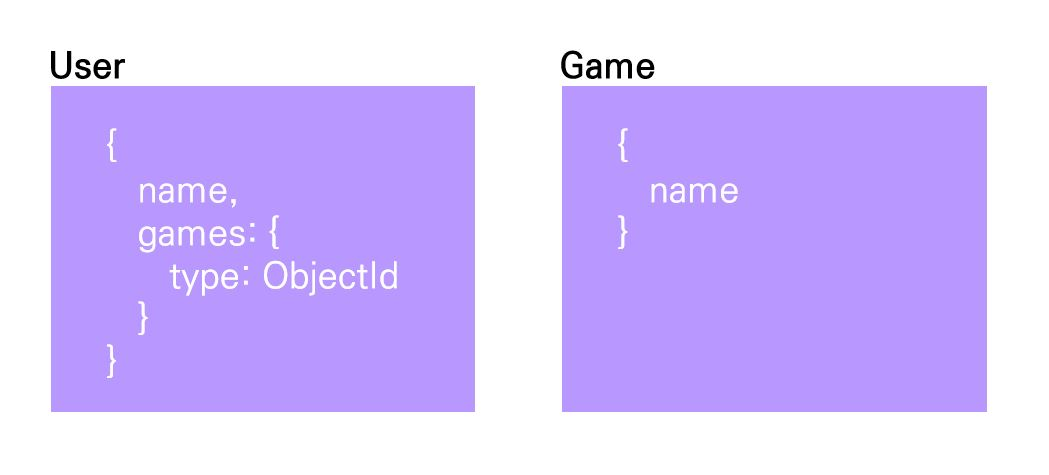
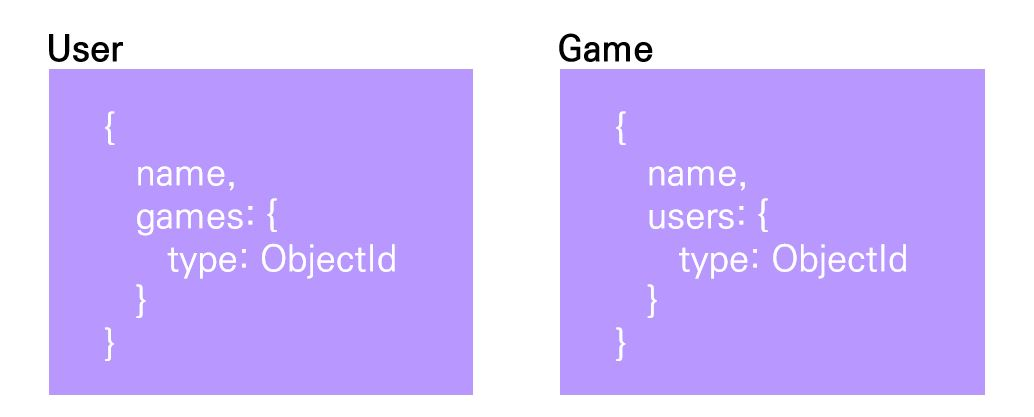
UPDATE : Enable copy my colors & _posts file logic simple

diff --git a/_sass/jebl/_about.scss b/_sass/jebl/_about.scss
@@ -72,6 +72,34 @@
 				display: none;
 			}
 		}
+		.theme-block {
+			width: 18rem;
+			padding: 10px;
+			display: flex;
+			margin-top: 2rem;
+			margin-left: auto;
+			margin-right: auto;
+			border-radius: .5rem;
+			justify-content: space-around;
+			box-shadow: 5px 5px 8px #e6e6e6, -5px -5px 8px #ffffff;
+			.theme-btn {
+				width: 3rem;
+				height: 3rem;
+				border: 0;
+				border-radius: .5rem;
+				// background-color: tomato;
+				-webkit-box-shadow: 3px 3px 5px 0px rgba(0,0,0,0.15);
+				-moz-box-shadow: 3px 3px 5px 0px rgba(0,0,0,0.15);
+				box-shadow: 3px 3px 5px 0px rgba(0,0,0,0.15);
+				transition: all ease .3s;
+				&:hover {
+					transform: scale(1.1);
+				}
+				&:active {
+					transform: scale(.9);
+				}
+			}
+		}
 	}
 	.history-main {
 		font-size: 48px;

diff --git a/_sass/jebl/_layout.scss b/_sass/jebl/_layout.scss
@@ -282,6 +282,10 @@
 			border-radius: 35px;
 			color: $themeColor;
 			background: #FFFFFF;
+			-webkit-box-shadow: 5px 5px 8px #e6e6e6, 
+			             -5px -5px 8px #ffffff;
+			-moz-box-shadow: 5px 5px 8px #e6e6e6, 
+			             -5px -5px 8px #ffffff;
 			box-shadow:  5px 5px 8px #e6e6e6, 
 			             -5px -5px 8px #ffffff;
 		}
@@ -532,7 +536,7 @@
 }
 .alertBoxShow {
     background: #ffffff;
-	animation: fadeInOut 5s linear forwards;
+	animation: fadeInOut 4s linear forwards;
 }
 @keyframes fadeInOut {
  0% { opacity: 0; }

diff --git a/_layouts/post.html b/_layouts/post.html
@@ -115,8 +115,8 @@
 
 	});
 	function copyUrlToClipboard() {
-		var dummy = document.createElement('input'),
-		text = window.location.href;
+		var dummy = document.createElement('input');
+		var text = window.location.href;
 
 		document.body.appendChild(dummy);
 		dummy.value = text;

diff --git a/_posts/Lib/2020-7-10-NoSQL-Follow-Schema.md b/_posts/Lib/2020-7-10-NoSQL-Follow-Schema.md
@@ -1,0 +1,306 @@
+---
+layout: post
+title: Mongoose Following/Follower Schema에 대해서
+date: 2020-7-10
+categories: [Lib]
+description: NoSQL-MongoDB에서 팔로우, 팔로윙 설계에 대해
+tags: [NoSQL, MongoDB, Mongoose]
+keywords: Mongoose, NoSQL, MongoDB
+comments: false
+haveImg: true
+headerImg: 2020-5-22-jekyll-custom-4.jpg
+---
+
+근래 진행하던 프로젝트에서 팔로우기능을 구현할일이 생겼는데요.
+SQL이였다면 팔로우-팔로윙 관계를 기록하는 테이블을 만들어 팔로우 관계를 JOIN을 통해 연결지었을 터이지만 
+비관계형 NoSQL에서는 어떻게 설계해야 되는지 생각해봤습니다.
+분명 MongoDB의 Mongoose에는 populate기능이 JOIN의 역할을 해주고 있습니다.
+그렇다면 populate를 사용해서 팔로우 관계를 알아내는 스키마가 옳은지,
+기존 SQL 처럼 팔로우 관계를 기록하는 컬렉션을 만드는게 옳은지 고민하다 이 글을 쓰게됐습니다.
+
+> 이 글은 어떤 방법이나 방식을 제안하는 글이 아닌 연구용임을 알립니다.
+
+
+## 여러 방법
+일단 프로젝트에서는 유저-유저 팔로우 관계와 유저-게임 팔로우 관계를 필요로 합니다.
+이 글에서는 분리하기 쉽게 유저-게임 관계의 방법에 대해 생각해보았습니다.
+
+- 유저에서 팔로우한 게임 ObjectID를 담는 방법
+- 게임에서 팔로우한 유저 ObjectID를 담는 방법
+- **유저와 게임에게 팔로우한 각각의 ObjectID를 서로 담는 방법**
+- **유저와 게임사이 팔로우 관계를 기록하는 컬렉션에 각각의 ObjectID를 담는 방법**
+
+
+
+## 유저와 게임에게 팔로우한 각각의 ObjectID를 서로 담는 방법
+
+유저-게임사이의 팔로우관계를 각자의 스키마에서 담아 관리한다고 할때 둘의 스키마는 아래와 유사하게 설계될겁니다.
+
+![1](/assets/img/2020-7-10-Follow/1.jpg)
+
+> 위 이미지는 참고용 이미지로, User.games와 Game.users는 서로의 ObjectId가 저장될 배열입니다.
+
+<br/>
+
+### 유저-게임 스키마 설계
+**유저 스키마**
+```js
+const userSchema = new Schema({
+  name: {
+    type: String,
+    required: true
+  },
+  games: [{
+      game: {
+        type: ObjectId,
+        ref: 'Game'
+      }
+  }]
+});
+```
+games 배열은 game이라는 ObjectId, 즉 유저가 팔로우한 게임들의 `_id`가 해당 배열에 저장합니다.
+
+**게임 스키마**
+```js
+const gameSchema = new Schema({
+  name: {
+    type: String,
+    required: true
+  },
+  followers: [{
+      user: {
+        type: ObjectId,
+        ref: 'User'
+      }
+  }]
+});
+```
+마찬가지로 followers 배열은 user라는 ObjectId, 즉 게임을 팔로우한 유저들의 `_id`가 해당 배열에 저장합니다.
+
+<br/>
+
+### 유저-게임 관계 넣기
+유저와 게임에 각각 데이터가 입력되었다고 했을때 팔로우|팔로우취소는 아래와 비슷하게 설계되겠죠
+
+**팔로우 하기**
+```js
+router.patch('/follow', function (req, res, next) {
+  let userID = req.body.userID;
+  let gameID = req.body.gameID;
+
+  User.findByIdAndUpdate( userID,
+		{ $push: { 'games': { game: gameID } } },
+		{ safe: true, upsert: true, new : true })
+  .then((result) => {
+       return Game.findByIdAndUpdate( gameID,
+		  { $push: { 'users': { user: userID } } },
+		  { safe: true, upsert: true, new : true });
+  })
+  .then((result) => { res.status(200).json(result); })
+  .catch((err) => { next(err); });
+})
+```
+
+위 코드는 **팔로우하는 유저의 ObjectId**와 그 대상인 **게임의 ObjectId**를 알고 있다는 가정하에 작성된 코드입니다.
+프로젝트 내에서 항상 `_id` 값을 가지고 있거나 혹은, 다른 특정 값을 이용해 `_id`값을 찾아야 됩니다.
+
+게임 팔로우 이력을 유저만 가지고 있겠다라고 하면 첫번째 `then`부분은 필요가 없습니다.
+물론 한쪽만 이력을 가지고 있는것도 팔로우 기능 구현에는 문제가 없습니다만 이는 게임을 팔로우한 유저 정보를 불러오지 않겠다에만 해당하는 이유입니다.
+
+예로, 유저가 팔로우한 게임 목록을 불러오기 위해서는 해당 유저의 데이터만 find하면 되지만,
+추가로 게임을 팔로우한 총 유저 수 또는 목록등을 필요로 할때, 모든 유저들의 `games` 데이터를 뒤져 해당게임과 일치하는 게임을 살펴봐야 할 것입니다.
+이는 분명 성능적인 부분에서 뒤떨어지는 방법입니다. 유저가 많을수록, 각 유저가 팔로우한 게임들이 많을수록 찾기 힘들어지겠죠
+
+다시 돌아와서 첫번째 `then`은 게임 컬렉션에도 팔로우한 유저 데이터를 넣는 부분입니다.
+이렇게되면 게임을 팔로우한 유저 데이터들도 유저와 마찬가지로 쉽게 불러올 수 있습니다.
+
+**팔로우 해제**
+```js
+router.patch('/unfollow', function (req, res, next) {
+  let userID = req.body.userID;
+  let gameID = req.body.gameID;
+
+  User.findByIdAndUpdate( userID,
+    	{ $pull: { 'games': { game: gameID } } },
+    	{ safe: true, upsert: true, new : true })
+  .then((result) => {
+     return Game.findByIdAndUpdate( gameID,
+      	{ $pull: { 'users': { user: userID } } },
+      	{ safe: true, upsert: true, new : true });
+  })
+  .then((result) => { res.status(200).json(result); })
+  .catch((err) => { next(err); });
+})
+```
+팔로우하기와 큰 차이 없이 `$push`에서 `$pull`로 변경해주면 배열 추가에서 삭제로 이어집니다.
+
+이렇게 유저와 게임에게 서로의 데이터를 저장하는 방식으로 서로의 관계를 쉽게 가져올 수 있습니다.
+
+**유저 정보 가져오기**
+```js
+router.get('/', function (req, res, next) {
+  User.find().populate({ path: 'games.game', model: 'Game', select: '_id name' })
+  .then((result) => { res.status(200).json(result); })
+  .catch((err) => { next(err); });
+});
+```
+유저의 게임 팔로우 기록까지 `populate`를 사용해 가져왔다.
+반대로 게임을 팔로우한 유저기록도 위 처럼 사용하면 된다.
+
+**결과**
+```json
+[
+  {
+    "_id": "5f0ac498ad4bb01c5cd16094",
+    "name": "홍길동",
+    "games": [
+      {
+        "_id": "5f0ac4c5ff1a882f287403a1",
+        "game": {
+          "_id": "5f0abc60ac451a281402289d",
+          "name": "오버워치"
+        }
+      },
+      {
+        "_id": "5f0ac7205fe42f0698687f04",
+        "game": {
+          "_id": "5f0abc6dac451a281402289e",
+          "name": "리그오브레전드"
+        }
+      }
+    ],
+    "__v": 0
+  }
+]
+```
+
+결과적으로 각가의 관계를 모두 기록하고 불러올 수 있게 됐습니다.
+
+![4](/assets/img/2020-7-10-Follow/4.jpg)
+아무런 팔로우 관계도 없을때 입니다. User 와 Game에 각각 스키마에 기반한 두개의 임시 데이터를 넣은 상황인데요.
+
+![5](/assets/img/2020-7-10-Follow/5.jpg)
+팔로우 관계 넣었을때, 즉 User와 Game내에 각각의 ObjectID를 저장하는 배열 크기가 1 증가 했을때 43Byte가 증가했습니다.
+
+![6](/assets/img/2020-7-10-Follow/6.jpg)
+다시한번 팔로우 관계를 추가로 넣었을때도 43Byte가 증가합니다. (이후에도 계속해서 데이터를 추가해 보아도 43Byte)
+
+결과적으로 팔로우시 User와 Game에 `_id` 값을 배열에 각각 추가할때는 86Byte 정도 추가된다고 볼수있겠네요.
+
+단순히 ObjectID 값을 넣었을때의 상황일때는 이렇습니다만 팔로우한 날짜, 해제 날짜 등의 데이터를 넣었을때는 상황에 따라 다르겠습니다.
+
+
+## 유저와 게임사이 팔로우 관계를 기록하는 컬렉션에 각각의 ObjectID를 담는 방법
+
+![2](/assets/img/2020-7-10-Follow/2.jpg)
+
+이번에는 기존 SQL 처럼 관계를 기록하는 새 컬렉션을 만드는 방법입니다.
+
+FollowRelationship 컬렉션에 User와 Game의 ObjectID를 저장합니다.
+
+**팔로우 하기**
+```js
+router.post('/follow', function (req, res, next) {
+  const follow = new Follow ({
+    user: req.body.userID,
+    game: req.body.gameID
+  });
+  follow.save()
+  .then((result) => { res.status(201).json(result); })
+  .catch((err) => { next(err); });
+});
+```
+이번에도 역시 User와 Game의 `ObjectID`를 알고 있다는 전제하로 작성됐습니다.
+
+**팔로우 해제**
+```js
+router.delete('/follow', function (req, res, next) {
+  const user = req.body.userID;
+  const game = req.body.gameID;
+
+  Follow.findOne({ user: user, game: game }, '_id')
+    .then((follow) => {
+      return Follow.findByIdAndDelete(follow._id);
+    })
+    .then((result) => { res.status(201).json(result); })
+    .catch((err) => { next(err); });
+});
+```
+
+User와 Game의 ObjectID가 모두 맞는 Follow 컬렉션 안에 있는 데이터 `_id`를 가져오고
+`findByIdAndDelete`를 통해 해당 `_id`에 맞는 데이터를 삭제합니다.
+
+저는 단순하게 `POST`와 `DELETE`를 사용했지만 상황에 따라서 `PUT`과 `PATCH` 도 사용될거 같습니다.
+
+
+**팔로우 정보 가져오기**
+```js
+router.get('/follow', function (req, res, next) {
+  Follow.find()
+  .populate({ path: 'user', model: 'User', select: '_id name' })
+  .populate({ path: 'game', model: 'Game', select: '_id name' })
+    .then((result) => { res.status(200).json(result); })
+    .catch((err) => { next(err); });
+});
+```
+
+팔로우 정보를 가져오는것은 쉽지만 유저의 팔로우 정보를 가져오는건 조금 번거롭습니다.
+
+**유저들의 팔로우 량 확인**
+```js
+router.get('/', function (req, res, next) {
+  let result;
+  User.find()
+    .then((users) => {
+		// 유저 정보들을 result 변수에 저장
+        result = users;
+		// 팔로우 량을 저장할 배열
+        let followCountArray = [];
+		// 유저 정보들을 모두 돌아가며 _id 값을 이용해 count 검색
+        users.forEach(function(user) {
+          followCountArray.push(Follow.count({ user: user._id }));
+        })
+        return Promise.all(followCountArray);
+    })
+    .then((followCountArray) => {
+      for (let i = 0; i < result.length; i++) {
+	  	// 각각 followers 라는 key를 생성해서 팔로우 량을 대입
+        let tempResultElement = result[i].toObject();
+        tempResultElement.followers = followCountArray[i];
+        result[i] = tempResultElement;
+      }
+      res.status(200).json(result);
+    })
+    .catch((err) => { next(err); });
+});
+```
+
+이 코드 방식이 **유저와 게임에게 팔로우한 각각의 ObjectID를 서로 담는 방법** 과 **유저와 게임사이 팔로우 관계를 기록하는 컬렉션에 각각의 ObjectID를 담는 방법** 의 가장 큰 차이점이라고 생각됩니다.
+
+![9](/assets/img/2020-7-10-Follow/9.jpg)
+
+서로 데이터를 담는 방법일때 단순히 `ObjectID`가 담긴 배열 크기만 호출 하면 되겠지만
+
+컬렉션을 따로 둘 경우에는 위와 같이 `User`와 `Follow` 두 번의 검색이 필요합니다.
+
+
+
+![7](/assets/img/2020-7-10-Follow/7.jpg)
+![8](/assets/img/2020-7-10-Follow/8.jpg)
+
+배열에 추가하는 방식보다 적은 67Byte가 나왔습니다. 
+
+사실 데이터 크기를 측정하는건 조금 의미가 없을지도 모르겠습니다. 어떤 데이터를 저장할지도 항상 다르고 환경마다 다를 수 있있으니..
+
+
+## 끝으로..
+
+데이터 용량 면에서는 컬렉션을 새로 만드는 쪽이 가벼웠지만 그 차이가 매우 미미했습니다.
+
+무엇보다 데이터 용량보단 데이터를 불러 오는 속도가 더욱 중요하겠다만 이는 측정하지 못했던 것이.. 데이터를 계속 늘려 봐도 1ms도 안걸리는 시간대 인데다 
+자주 호출 할 수록 더 빨리 불러와 지는 등의 변폭이 심해서 이는 차후해 방법을 알아낸 후에 실험해 봐야 할 것 같습니다.
+
+결과적으로 _'NoSQL에서 SQL 방식을 사용하는건 역시 불편함이 있다'_ 인것 같습니다.
+확실히 코드량도 늘어나 코드 복잡도가 증가하고 단순히 팔로워 수를 측정하는 데에 있어도 유연성이 떨어집니다.
+
+잘못된 부분이 있다면 언제든 지적 주시고 가르침을 주시면 감사하겠습니다.
